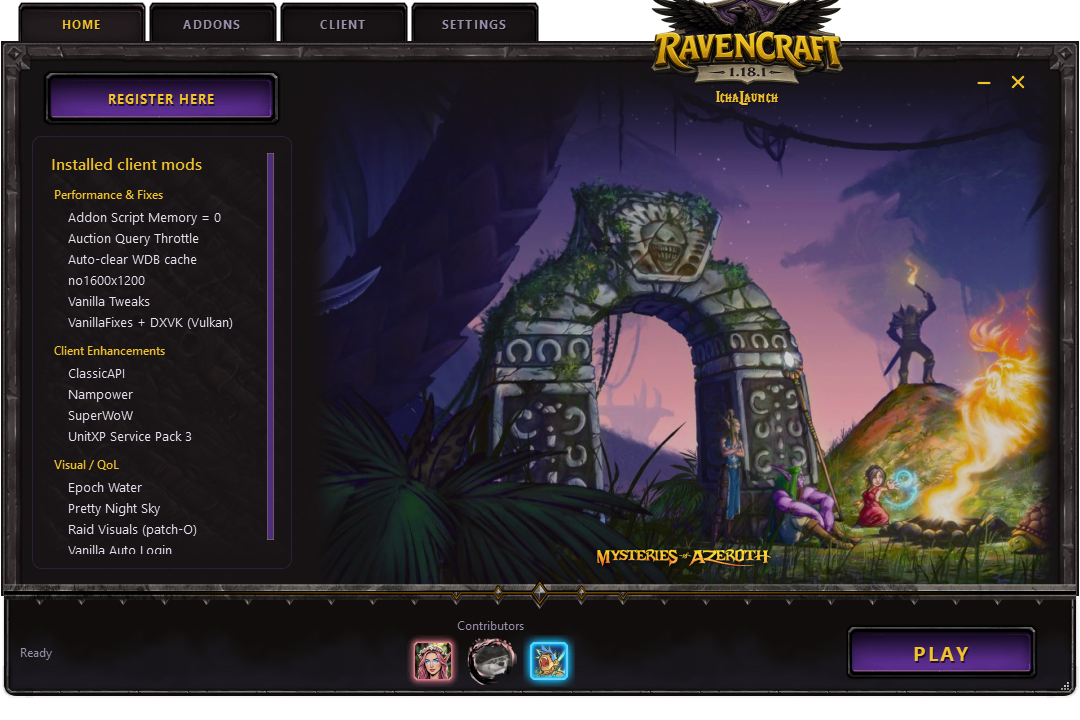
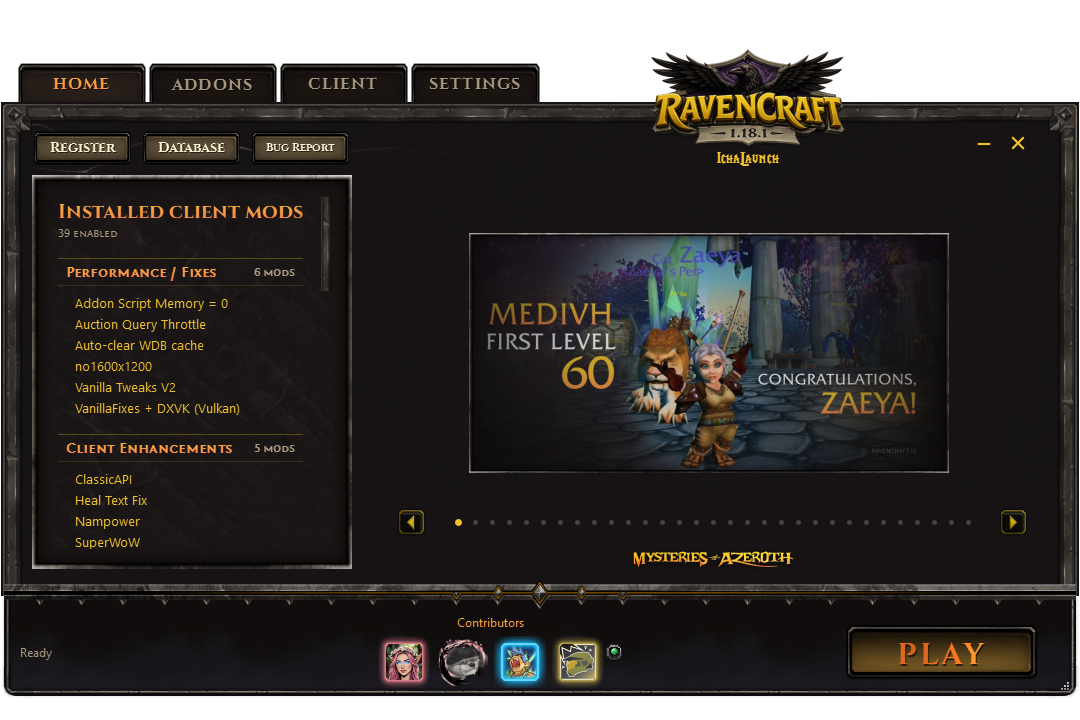
Refresh README screenshots for 1.5 chrome: Home with Zaeya in the well, four contributors, and the installed-mods frame.

diff --git a/tools/capture_screenshots.py b/tools/capture_screenshots.py
@@ -190,6 +190,10 @@ def main() -> int:
     load_stylesheet(app)
     icon = load_app_icon(app)
 
+    # Capture must not block on first-run privacy dialogs.
+    MainWindow._run_startup_opt_in_prompts = lambda self: None  # type: ignore[method-assign]
+    MainWindow._flush_pending_toc_mismatch_prompt = lambda self: None  # type: ignore[method-assign]
+
     win = MainWindow()
     if icon is not None:
         win.setWindowIcon(icon)
@@ -199,6 +203,19 @@ def main() -> int:
     app.processEvents()
 
     QTimer.singleShot(_FAILSAFE_MS, app.quit)
+
+    def _freeze_featured_slide() -> None:
+        """Hold the first Zaeya slide so Home shots match the 1.5 well."""
+        bg = win.home.talent_bg
+        fade = getattr(bg, "_fade", None)
+        if fade is not None:
+            fade.stop()
+            bg._fade = None
+        bg._timer.stop()
+        if bg.slide_count() > 0 and bg.display_index() != 0:
+            bg.go_to(0)
+            bg._timer.stop()
+        win.home._sync_brand_layout()
 
     def grab_pages(idx: int = 0) -> None:
         if idx >= len(SHOTS):
@@ -224,6 +241,8 @@ def main() -> int:
         name, page, loading = SHOTS[idx]
         win._nav(page)
         _set_loading_bar(win, loading)
+        if page == 0:
+            _freeze_featured_slide()
         app.processEvents()
         win._position_frame_stroke()
         win._position_rc_logo()
